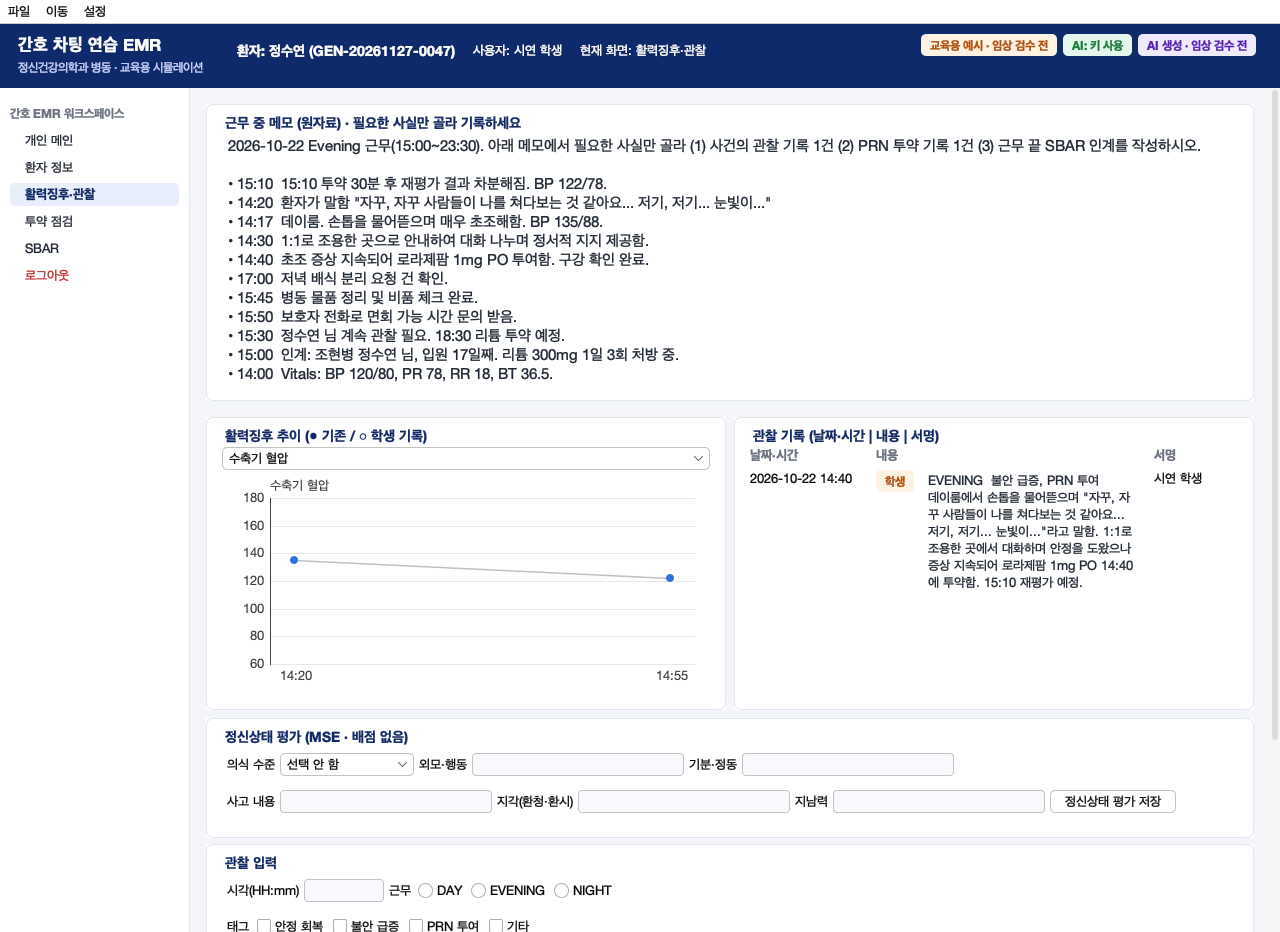
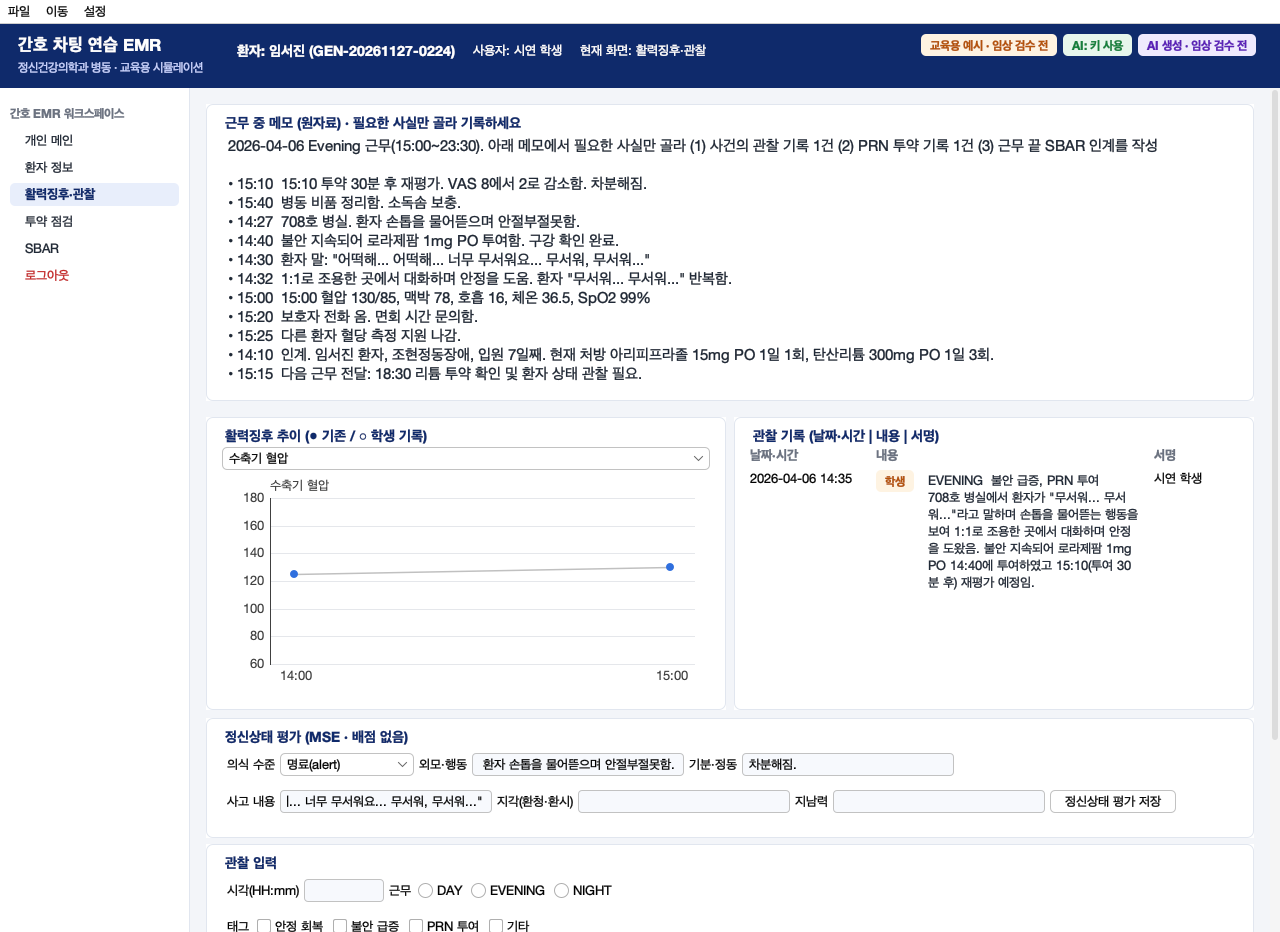
시연 기록 다시: PC-01 의식 수준 명료, 새 SBAR 기준 AI 환자
- PR #20 코드로 실습(기록 27·30), 결과·다시 보기는 과거 기록에서 다시 열어 그림
- DemoSession: 의식 수준 선택, AI 환자 정신상태 평가를 메모로 채움, 생성 실패 시 멈춤, 저장 기록 다시 그리기

diff --git a/src/test/java/app/tools/DemoSession.java b/src/test/java/app/tools/DemoSession.java
@@ -56,6 +56,8 @@ public final class DemoSession {
         dir.mkdirs();
         String pw = Files.readString(Path.of(args[1])).strip();
         boolean aiOnly = args.length > 2 && args[2].equals("ai");
+        // show <번호> <시작 번호>: 새 실습 없이 저장된 기록을 열어 결과·다시 보기만 다시 그린다
+        boolean show = args.length > 4 && args[2].equals("show");
         n = aiOnly ? 20 : 0;
         try {
             SwingUtilities.invokeAndWait(() -> {
@@ -70,7 +72,10 @@ public final class DemoSession {
             // DB에 연결되지 않으면 사용자 폴더의 파일에 저장되므로 멈춘다 (시연 기록은 DB에 남겨야 한다)
             if (onEdt(() -> state.notices().contains(AppState.FILE_MODE_NOTICE))) throw new IllegalStateException("DB에 연결되지 않아 멈춤");
             login(pw);
-            if (aiOnly) aiPractice();
+            if (show) {
+                n = Integer.parseInt(args[4]);
+                showRecord(Long.parseLong(args[3]));
+            } else if (aiOnly) aiPractice();
             else pc01Practice();
         } catch (Throwable t) {
             t.printStackTrace();
@@ -109,6 +114,39 @@ public final class DemoSession {
         shot("결과로-돌아감");
     }
 
+    /** 개인 메인 과거 기록 목록에서 그 번호를 눌러 결과를 연다 (Main과 같은 경로) */
+    private static void showRecord(long id) throws Exception {
+        edt(() -> {
+            app.ui.HomePanel home = first(frame.getRootPane(), app.ui.HomePanel.class);
+            home.reload();
+            @SuppressWarnings("unchecked")
+            var list = (javax.swing.JList<app.domain.Attempt>) get(home, "historyList");
+            for (int i = 0; i < list.getModel().getSize(); i++) {
+                if (list.getModel().getElementAt(i).attemptId() == id) list.setSelectedIndex(i);
+            }
+        });
+        var a = onEdt(state::resultAttempt);
+        if (a == null || a.attemptId() != id) throw new IllegalStateException("기록을 열지 못함: " + id);
+        System.out.println("열림: 번호 " + a.attemptId() + ", 케이스 " + a.caseId() + ", 점수 " + a.score());
+        boolean ai = a.caseSource() == app.domain.CaseSource.AI_GENERATED;
+        shotTall(ai ? "AI환자-결과-AI해설" : "결과-AI해설");
+        edt(() -> frame.show(Screen.PATIENT));
+        shot(ai ? "AI환자-다시보기-환자정보" : "다시보기-환자정보");
+        if (ai) {
+            edt(() -> frame.show(Screen.SBAR));
+            shot("AI환자-다시보기-SBAR");
+            return;
+        }
+        edt(() -> frame.show(Screen.OBSERVATION));
+        shot("다시보기-관찰-정신상태평가");
+        edt(() -> frame.show(Screen.MEDICATION));
+        shot("다시보기-투약");
+        edt(() -> frame.show(Screen.SBAR));
+        shot("다시보기-SBAR");
+        edt(() -> button(frame.getRootPane(), "결과로 돌아가기").doClick());
+        shot("결과로-돌아감");
+    }
+
     private static void aiPractice() throws Exception {
         edt(() -> button(frame.getRootPane(), "AI로 새 케이스 생성").doClick());
         // 생성은 시도마다 수십 초 걸릴 수 있다 (최대 5번)
@@ -119,6 +157,11 @@ public final class DemoSession {
         PatientCase c = onEdt(state::currentCase);
         if (c == null) throw new IllegalStateException("AI 케이스로 실습을 시작하지 못함");
         System.out.println("케이스: " + c.id() + " (" + c.source() + "), 과제: " + c.task());
+        // 생성에 실패해 기본 케이스로 돌아갔으면 실습하지 않는다 (AI 환자 기록만 남긴다)
+        if (c.source() != app.domain.CaseSource.AI_GENERATED) {
+            System.out.println("AI 생성 실패로 기본 케이스가 열림: " + onEdt(() -> text(frame.getRootPane())));
+            return;
+        }
         practice("AI");
         shotTall("AI환자-결과-AI해설");
         edt(() -> frame.show(Screen.PATIENT));
@@ -146,13 +189,27 @@ public final class DemoSession {
             ((JTextArea) get(p, "narrativeArea")).setText(o.narrative());
             ((JTextField) get(p, "interventionField")).setText(o.intervention() == null ? "" : o.intervention());
             button(p, "관찰 기록 저장").doClick();
-            // 정신상태 평가: 원자료 메모에 있는 관찰만 옮긴다 (메모에 없는 의식 수준·지남력은 비워 둔다)
+            // 정신상태 평가: 원자료 메모에 있는 관찰만 옮긴다. 의식 수준은 학생이 관찰해 고르는 칸이다
+            // (환자가 말에 대답하고 걸어 다니므로 명료). 메모에 없는 지각·지남력은 비워 둔다
+            @SuppressWarnings("unchecked")
+            JComboBox<String> level = (JComboBox<String>) get(p, "consciousnessBox");
+            level.setSelectedItem("명료(alert)");
             if ("PC01".equals(label)) {
                 ((JTextField) get(p, "appearanceField")).setText("데이룸 창가 쪽을 왔다 갔다 서성거림, 손톱을 물어뜯음");
                 ((JTextField) get(p, "thoughtField")).setText("\"누가 나를 감시하는 것 같아요… 계속 봐요\"라고 말함");
                 ((JTextField) get(p, "moodField")).setText("재평가 때 \"이제… 좀 괜찮아요\"라고 말함");
-                button(p, "정신상태 평가 저장").doClick();
+            } else {
+                // AI 환자: 메모의 관찰을 맞는 칸에 옮긴다. 외모·행동 = 사건 관찰 메모,
+                // 환자 말 = 들리거나 보인다는 말이면 지각(환청·환시), 아니면 사고 내용, 기분·정동 = 재평가 메모 중 불안·차분 문장
+                ((JTextField) get(p, "appearanceField")).setText(memo(c, "EVENT"));
+                String speech = memo(c, "SPEECH");
+                boolean perceptual = speech.matches(".*(들려|들린|소리|보여|보인|목소리).*");
+                ((JTextField) get(p, perceptual ? "perceptionField" : "thoughtField")).setText(speech);
+                String mood = java.util.Arrays.stream(memo(c, "REASSESS").split("(?<=[.])\\s*"))
+                        .filter(x -> x.matches(".*(불안|차분|안정|초조|편안|괜찮).*")).findFirst().orElse("");
+                ((JTextField) get(p, "moodField")).setText(mood.strip());
             }
+            button(p, "정신상태 평가 저장").doClick();
         });
         System.out.println("관찰 저장: " + onEdt(() -> state.studentObservations().size()) + "건, 정신상태 평가: "
                 + onEdt(() -> String.valueOf(state.mentalStatus())));
@@ -211,6 +268,12 @@ public final class DemoSession {
                 + ", AI 해설 " + (a.aiFeedback() == null ? "NONE" : a.aiFeedback().status()));
         a.checks().stream().filter(x -> x.status() != app.domain.CheckStatus.PASS)
                 .forEach(x -> System.out.println("  - " + x.ruleId() + " " + x.status() + " " + x.message()));
+    }
+
+    /** 그 종류의 가장 이른 메모 글 (없으면 빈 글) */
+    private static String memo(PatientCase c, String kind) {
+        return c.rawNotes().stream().filter(x -> kind.equals(x.kind())).min((x, y) -> x.time().compareTo(y.time()))
+                .map(app.domain.RawNote::text).orElse("");
     }
 
     // ---------- 도우미 ----------

diff --git a/docs/검증/시연/README.md b/docs/검증/시연/README.md
@@ -1,20 +1,18 @@
-# 시연 계정(demo01) 실습 기록 (2026-11-27, v0.1.4-1130)
+# 시연 계정(demo01) 실습 기록 (2026-11-27)
 
 `app.tools.DemoSession`(src/test)으로 만든 기록과 화면이다.
 - 프로그램과 같은 창(`Main.createFrame`)을 실제 DB(MySQL)와 AI 설정으로 만들었다.
-- 화면 입력칸과 버튼으로 로그인 → 실습 → 제출했다.
-- 입력은 케이스의 모범 기록을 그대로 옮겼다(오타 없음).
-- 앱 클래스는 v0.1.4-1130 릴리스와 같은 빌드의 JAR에서 읽었다.
+- 화면 입력칸과 버튼으로 로그인 → 실습 → 제출했다. 입력은 케이스의 모범 기록을 그대로 옮겼다(오타 없음).
 - 창을 화면에 띄우지 않고 컴포넌트만 그렸다. 비밀번호·키·DB 접속 정보는 출력하지 않았다.
 
-정리 전 demo01 기록 6건(번호 19~24, 모두 이전 채점 기준 D30)은 사용자가 직접 지웠다.
+**코드 기준:** v0.1.4-1130에 PR #20(결과 투약 줄 단위·구강 확인, SBAR 한 문단 마침표, AI 케이스 SBAR 요소 기준 D39)을 더한 코드다. 다음 릴리스와 같은 화면이다.
 
-| 번호 | 제출 시각 | 케이스 | 점수 | AI 해설 | 채점 기준 |
-|---|---|---|---|---|---|
-| 25 | 2026-11-27 00:42 | PC-01 | 100 | 받음 | 현재(D33) |
-| 26 | 2026-11-27 00:47 | GEN-20261127-0047 (AI 생성, 2026-10-22 Evening) | 100 | 받음 | 현재(D33) |
+| 번호 | 케이스 | 점수 | AI 해설 | 비고 |
+|---|---|---|---|---|
+| 27 | PC-01 | 100 | 받음 | 정신상태 평가 의식 수준 '명료(alert)' |
+| 30 | GEN-20261127-0224 (AI 생성, 2026-04-06 Evening, 조현정동장애, 입원 7일째) | 100 | 받음 | 새 SBAR 기준(S 2·B 3·A 2·R 2)으로 만든 케이스 |
 
-## PC-01 (01~10)
+## PC-01 (01~10, 기록 27)
 
 | 파일 | 화면 |
 |---|---|
@@ -22,21 +20,35 @@
 | `02-PC01-관찰.png` | 관찰 기록 저장과 정신상태 평가 입력 |
 | `03-PC01-투약.png` | 투약 5원칙을 모두 체크하고 저장 |
 | `04-PC01-SBAR.png` | SBAR 입력 |
-| `05-결과-AI해설.png` | 결과 화면 전체(길게 그림): 점수, 내가 제출한 기록, 실제 인계 기록 형태, 모범 기록, AI 해설 |
+| `05-결과-AI해설.png` | 결과 화면 전체(길게 그림): 점수, 내가 제출한 기록(투약 줄 '1mg … · 구강 확인 ✓'), 실제 인계 기록 형태, 모범 기록, AI 해설 |
 | `06~09-다시보기-*.png` | 제출한 기록 다시 보기: 환자 정보·관찰(정신상태 평가)·투약·SBAR |
 | `10-결과로-돌아감.png` | "결과로 돌아가기" 뒤 |
 
-정신상태 평가에는 원자료 메모에 있는 관찰만 옮겼다(외모·행동, 기분·정동, 사고 내용). 메모에 없는 의식 수준·지각·지남력은 비워 두었다.
+정신상태 평가는 학생이 관찰해 적는 칸이다.
+- 의식 수준: 환자가 말에 대답하고 걸어 다니므로 '명료(alert)'.
+- 외모·행동, 기분·정동, 사고 내용: 원자료 메모의 관찰을 옮겼다.
+- 메모에 없는 지각·지남력: 비워 두었다.
 
-## AI 환자 (21~26)
+## AI 환자 (21~27, 기록 30)
 
 | 파일 | 화면 |
 |---|---|
 | `21-AI-환자정보.png` | AI가 만든 환자로 실습 시작 |
-| `22~24-AI-*.png` | 관찰·투약·SBAR 입력 |
-| `25-AI환자-결과-AI해설.png` | 결과 화면 전체. 정신상태 평가를 적지 않아 "정신상태 평가를 기록하세요" 피드백이 보인다 |
+| `22~24-AI-*.png` | 관찰(정신상태 평가 포함)·투약·SBAR 입력 |
+| `25-AI환자-결과-AI해설.png` | 결과 화면 전체 |
 | `26-AI환자-다시보기-환자정보.png` | 다시 보기의 환자 정보 |
+| `27-AI환자-다시보기-SBAR.png` | 다시 보기의 SBAR와 실제 인계 기록 형태 |
+
+정신상태 평가는 메모의 관찰로 채웠다.
+- 의식 수준: 명료.
+- 외모·행동: 사건 관찰 메모.
+- 사고 내용: 환자 말 메모.
+- 기분·정동: 재평가 메모의 '차분해짐'.
+
+결과·다시 보기 화면(05~10, 25~27)은 개인 메인의 과거 기록에서 다시 열어 그렸다(프로그램과 같은 경로).
 
 ## 알아 둘 점
-- v0.1.4에서는 결과의 투약 줄이 "Lorazepam 1 PO 09:30 투여"처럼 단위가 빠져 보인다. PR #20에서 "1mg … · 구강 확인 ✓"로 고쳤고, 다음 릴리스에 들어간다.
-- AI 환자의 모범 SBAR는 짧다(예: "B: 조현병 환자임"). 이 모범 기록을 그대로 옮겨도 R9 필수 요소를 모두 채워 100점이 나왔다.
+- 같은 시연 중 다른 기록 두 건이 더 생겼다. 지울 기록이다.
+  - 28: AI 환자. 정신상태 평가 칸 배정이 어색해서 다시 했다.
+  - 29: AI 생성이 5번 실패해 기본 케이스로 돌아간 PC-01.
+- AI 환자의 모범 SBAR R 행에 시각이 두 번 들어가 있다("18:30 18:30 탄산리튬 투약 확인 바랍니다"). R 행 시각과 같은 시각을 중재 글에도 쓴 AI 모범 기록 그대로다.
